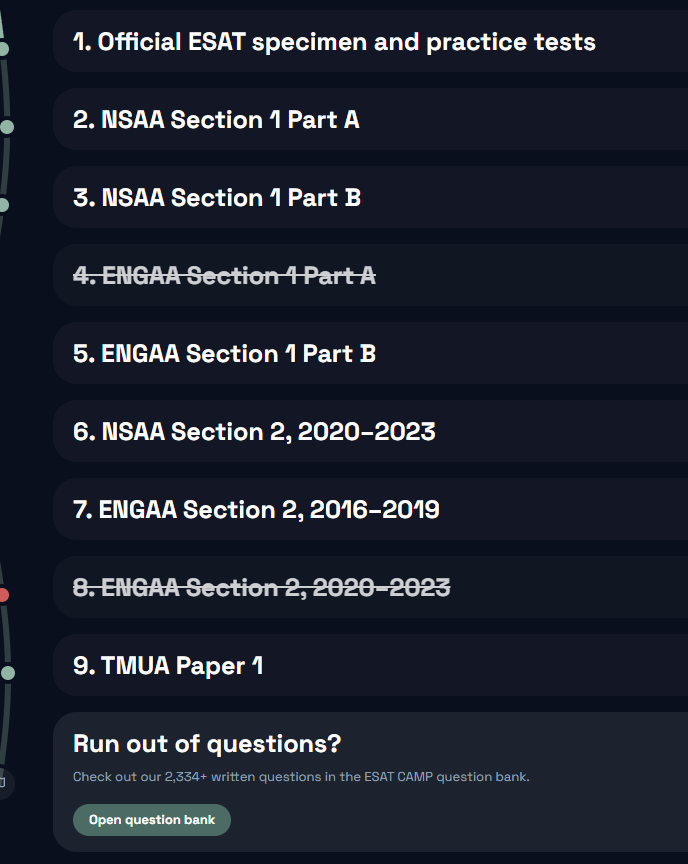
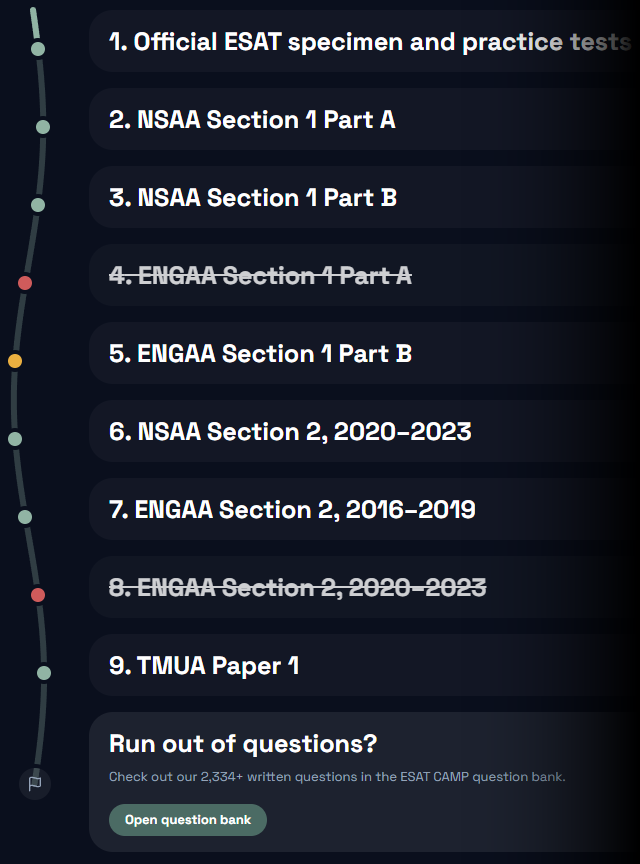
Tighten past-papers stills so the player and roadmap fit one row.
Crop empty right space from both images and keep the roadmap path visible on the left.

diff --git a/src/components/home/HomepageRoadmapPreview.tsx b/src/components/home/HomepageRoadmapPreview.tsx
@@ -4,7 +4,7 @@ import { cn } from "@/lib/utils";
 const ROADMAP_IMAGE = {
   src: "/images/home/roadmap-preview.webp",
   alt: "Past papers roadmap checklist with staged specimen, NSAA, ENGAA, and TMUA papers",
-  width: 688,
+  width: 640,
   height: 864,
 } as const;
 
@@ -14,7 +14,7 @@ interface HomepageRoadmapPreviewProps {
 
 /**
  * Marketing still of the past-papers roadmap, tilted opposite the exam player
- * preview, with a soft fade into the section background on the right.
+ * preview. Left path stays visible; right edge fades into the section.
  */
 export function HomepageRoadmapPreview({
   className,
@@ -23,15 +23,15 @@ export function HomepageRoadmapPreview({
     <div className={cn("relative", className)}>
       <div
         aria-hidden
-        className="pointer-events-none absolute left-1/2 top-1/2 -z-10 h-48 w-40 -translate-x-1/2 -translate-y-1/2 rounded-full bg-[#3B82F6]/20 blur-3xl sm:h-64 sm:w-52"
+        className="pointer-events-none absolute left-1/2 top-1/2 -z-10 h-40 w-32 -translate-x-1/2 -translate-y-1/2 rounded-full bg-[#3B82F6]/20 blur-3xl sm:h-52 sm:w-40"
       />
-      <div className="mx-auto max-w-[15rem] px-2 py-4 [perspective:1400px] sm:max-w-[17rem] xl:max-w-[19rem]">
+      <div className="mx-auto w-full max-w-none px-0 py-1 [perspective:1400px]">
         <div
           className={cn(
             "relative origin-center overflow-hidden rounded-xl bg-[#0A0F1D]",
             "shadow-[0_28px_60px_-12px_rgba(0,0,0,0.65),0_12px_24px_-8px_rgba(15,23,42,0.45)]",
             /* Opposite yaw to PastPaperPlayerPreview's rotateY(-…) */
-            "[transform:rotateY(12deg)_rotateX(7deg)] sm:[transform:rotateY(15deg)_rotateX(7deg)]",
+            "[transform:rotateY(12deg)_rotateX(7deg)] sm:[transform:rotateY(14deg)_rotateX(7deg)]",
           )}
         >
           <Image
@@ -39,12 +39,8 @@ export function HomepageRoadmapPreview({
             alt={ROADMAP_IMAGE.alt}
             width={ROADMAP_IMAGE.width}
             height={ROADMAP_IMAGE.height}
-            sizes="(min-width: 1280px) 19rem, (min-width: 640px) 17rem, 15rem"
-            className="h-auto w-full scale-[1.06] object-cover object-left"
-          />
-          <div
-            aria-hidden
-            className="pointer-events-none absolute inset-y-0 right-0 w-[42%] bg-gradient-to-r from-transparent via-[#0A0F1D]/55 to-[#0A0F1D]"
+            sizes="(min-width: 1024px) 16rem, 38vw"
+            className="h-auto w-full"
           />
         </div>
       </div>

diff --git a/src/components/home/PastPaperPlayerPreview.tsx b/src/components/home/PastPaperPlayerPreview.tsx
@@ -2,9 +2,9 @@ import Image from "next/image";
 import { cn } from "@/lib/utils";
 
 const PLAYER_IMAGE = {
-  src: "/images/home/uat-uk-player.png",
+  src: "/images/home/uat-uk-player-home.webp",
   alt: "Past paper exam player styled like the official UAT-UK interface, showing a timed multiple-choice question",
-  width: 2850,
+  width: 1760,
   height: 1800,
 } as const;
 
@@ -43,7 +43,7 @@ export function PastPaperPlayerPreview({
           compact
             ? "max-w-[16rem] px-2 py-3"
             : embedded
-              ? "max-w-[28rem] px-2 py-4 xl:max-w-[32rem]"
+              ? "w-full max-w-none px-0 py-1"
               : "max-w-[40rem] px-3 py-8 xl:max-w-[46rem] sm:px-5",
         )}
       >
@@ -65,7 +65,7 @@ export function PastPaperPlayerPreview({
               compact
                 ? "16rem"
                 : embedded
-                  ? "(min-width: 1280px) 32rem, 28rem"
+                  ? "(min-width: 1024px) 30rem, 58vw"
                   : "(min-width: 1280px) 46rem, (min-width: 1024px) 40rem, 100vw"
             }
             className="h-auto w-full"

diff --git a/src/components/home/MarketingHomepage.tsx b/src/components/home/MarketingHomepage.tsx
@@ -369,11 +369,11 @@ export function MarketingHomepage({
             ))}
           </ul>
 
-          <div className="mt-12 flex flex-col items-center justify-center gap-6 sm:mt-14 sm:flex-row sm:items-center sm:gap-4 lg:gap-8">
-            <div className="w-full max-w-[34rem] shrink sm:max-w-[38rem] lg:max-w-[42rem]">
+          <div className="mt-12 flex flex-row flex-nowrap items-center justify-center gap-2 sm:mt-14 sm:gap-3 lg:gap-5">
+            <div className="w-[58%] max-w-[26rem] shrink sm:w-auto sm:max-w-[28rem] lg:max-w-[30rem]">
               <PastPaperPlayerPreview embedded />
             </div>
-            <div className="w-full max-w-[16rem] shrink-0 sm:max-w-[18rem] lg:max-w-[20rem]">
+            <div className="w-[38%] max-w-[14rem] shrink-0 sm:w-auto sm:max-w-[15rem] lg:max-w-[16rem]">
               <HomepageRoadmapPreview />
             </div>
           </div>
